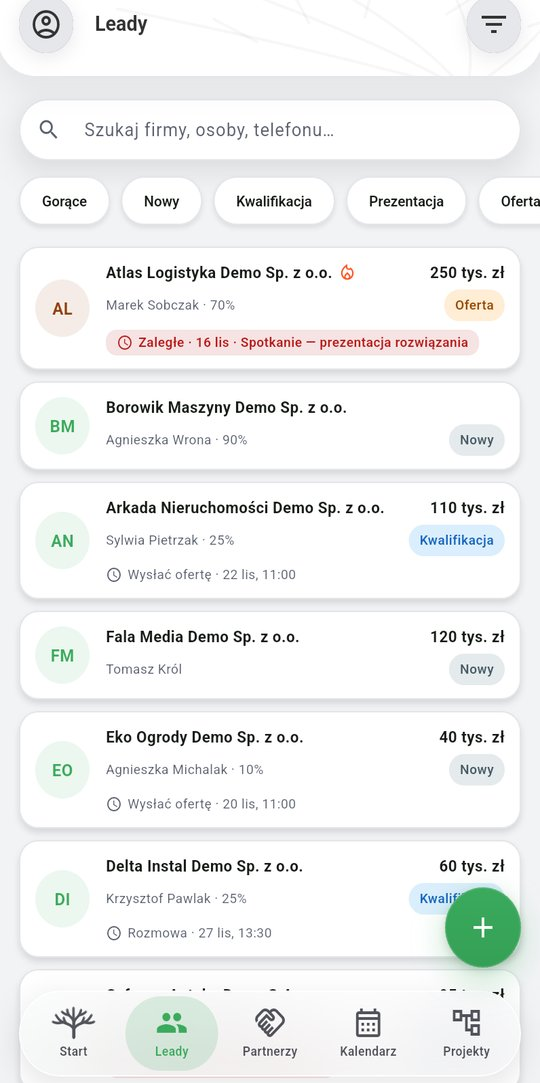
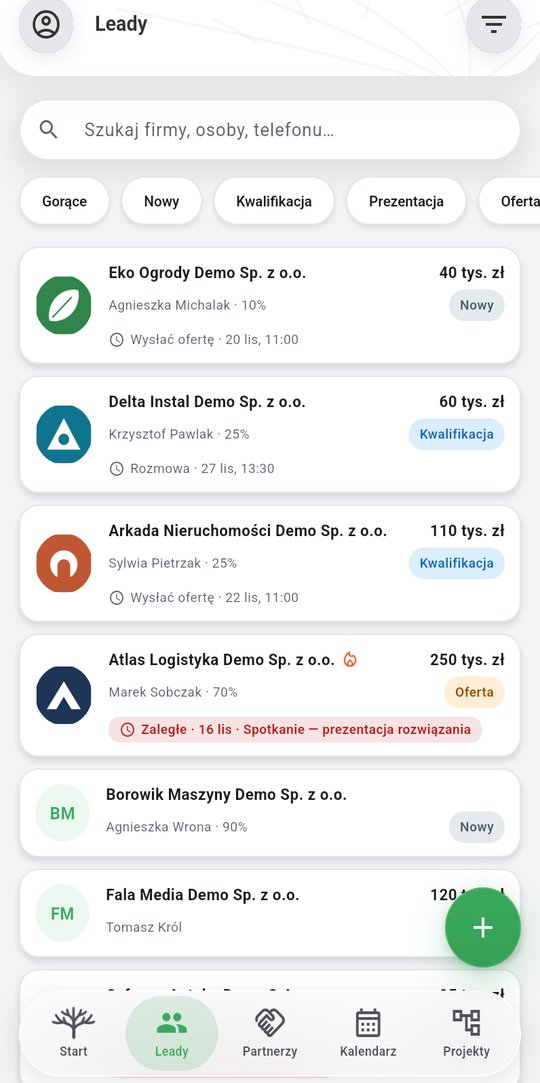
docs(instrukcja): lista leadów w telefonie z logotypami firm demo

Changed region(s): [[0.0296, 0.2438, 0.9481, 0.8837], [0.0296, 0.6704, 0.0593, 0.7008]]

diff --git a/src/assets/manual/ru.html b/src/assets/manual/ru.html
@@ -438,7 +438,7 @@ nav.toc .grp{margin:12px 0 2px;padding:0 10px;font-size:12.5px;font-weight:700;c
 <h4 id="p1-leads-mobile"><span class="tag mob">MOBILE</span>Лиды на телефоне</h4>
 <p>На вкладке <b>«Лиды»</b> есть поле <b>«Поиск компании, контакта, телефона…»</b> и чипы для <b>«Горячий»</b> и каждого этапа (<b>«Новый»</b>, <b>«Квалификация»</b>, <b>«Презентация»</b> и так далее). Сначала идут недавно обновлённые лиды. В первой строке плитки — компания и сумма (например, <b>«250 тыс. zł»</b>), во второй — контакт с вероятностью, справа — этап. Третья строка появляется только при задаче со сроком: просроченная — красной меткой <b>«Просроченные · 10 нояб. · …»</b>, ближайшая запланированная — серым. Пламя рядом с названием означает горячий лид. Значок воронки в правом верхнем углу открывает <b>«Фильтры»</b>: <b>«Этап»</b> (включая «Архив»), <b>«Источник»</b>, переключатели <b>«Горячий»</b>, <b>«Только на паузе»</b> и <b>«Только мои»</b>, а для руководителей – <b>«Менеджер по продажам»</b>. Завершите кнопкой <b>«Сбросить»</b> или <b>«Применить»</b>.</p>
 <div class="phones">
-<figure class="phone"><img loading="lazy" src="img/en_t13_leads_list.jpg?v=20261116b" width="540" height="1083" alt="Список лидов на телефоне"><figcaption>«Лиды»: поиск, чипы этапов и плитки лидов.</figcaption></figure>
+<figure class="phone"><img loading="lazy" src="img/en_t13_leads_list.jpg?v=20261116c" width="540" height="1083" alt="Список лидов на телефоне"><figcaption>«Лиды»: поиск, чипы этапов и плитки лидов.</figcaption></figure>
 <figure class="phone"><img loading="lazy" src="img/en_t14_leads_filters.jpg?v=20261113" width="540" height="1083" alt="Фильтры лидов"><figcaption>«Фильтры»: этап, источник, горячий, на паузе, только мои.</figcaption></figure>
 </div>
 </section>

diff --git a/src/assets/manual/fr.html b/src/assets/manual/fr.html
@@ -438,7 +438,7 @@ nav.toc .grp{margin:12px 0 2px;padding:0 10px;font-size:12.5px;font-weight:700;c
 <h4 id="p1-leads-mobile"><span class="tag mob">MOBILE</span>Les leads sur le téléphone</h4>
 <p>L’onglet <b>« Leads »</b> comporte un champ <b>« Rechercher une société, une personne, un téléphone… »</b> et des puces pour <b>« Chauds »</b> et chaque étape (<b>« Nouveau »</b>, <b>« Qualification »</b>, <b>« Présentation »</b>, etc.). Les leads récemment mis à jour viennent en premier. La première ligne de la tuile affiche l’entreprise et la valeur (par exemple <b>« 250 k zł »</b>), la deuxième le contact avec la probabilité et, à droite, l’étape. Une troisième ligne n’apparaît que pour une activité datée : en retard sous forme d’étiquette rouge <b>« En retard · 10 nov. · … »</b>, la prochaine prévue en gris. Une flamme à côté du nom signale un lead chaud. L’icône d’entonnoir en haut à droite ouvre les <b>« Filtres »</b> : <b>« Étape »</b> (y compris Archivés), <b>« Source »</b>, des interrupteurs pour <b>« Chauds »</b>, <b>« En attente uniquement »</b> et <b>« Les miens uniquement »</b>, et pour les responsables <b>« Commercial »</b>. Terminez avec <b>« Effacer »</b> ou <b>« Appliquer »</b>.</p>
 <div class="phones">
-<figure class="phone"><img loading="lazy" src="img/en_t13_leads_list.jpg?v=20261116b" width="540" height="1083" alt="Liste des leads sur le téléphone"><figcaption>« Leads » : recherche, puces d’étapes et tuiles de leads.</figcaption></figure>
+<figure class="phone"><img loading="lazy" src="img/en_t13_leads_list.jpg?v=20261116c" width="540" height="1083" alt="Liste des leads sur le téléphone"><figcaption>« Leads » : recherche, puces d’étapes et tuiles de leads.</figcaption></figure>
 <figure class="phone"><img loading="lazy" src="img/en_t14_leads_filters.jpg?v=20261113" width="540" height="1083" alt="Filtres des leads"><figcaption>« Filtres » : étape, source, chaud, en attente, les miens uniquement.</figcaption></figure>
 </div>
 </section>

diff --git a/src/assets/manual/ro.html b/src/assets/manual/ro.html
@@ -438,7 +438,7 @@ nav.toc .grp{margin:12px 0 2px;padding:0 10px;font-size:12.5px;font-weight:700;c
 <h4 id="p1-leads-mobile"><span class="tag mob">MOBILE</span>Leaduri pe telefon</h4>
 <p>Fila <b>„Leaduri”</b> are o casetă <b>„Căutați companie, persoană, telefon…”</b> și chipuri pentru <b>„Fierbinți”</b> și pentru fiecare etapă (<b>„Nou”</b>, <b>„Calificare”</b>, <b>„Prezentare”</b> și așa mai departe). Leadurile actualizate recent apar primele. Primul rând al cardului arată compania și valoarea (de exemplu <b>„250 mii zł”</b>), al doilea contactul cu probabilitatea, iar în dreapta etapa. Un al treilea rând apare doar pentru o activitate cu termen: cea restantă ca etichetă roșie <b>„Restante · 10 nov. · …”</b>, următoarea planificată cu gri. O flacără lângă nume marchează un lead fierbinte. Pictograma pâlnie din colțul din dreapta sus deschide <b>„Filtre”</b>: <b>„Etapă”</b> (inclusiv Arhivat), <b>„Sursă”</b>, comutatoare pentru <b>„Fierbinți”</b>, <b>„Doar în așteptare”</b> și <b>„Doar ale mele”</b>, iar pentru manageri <b>„Agent de vânzări”</b>. Încheiați cu <b>„Resetare”</b> sau <b>„Aplicare”</b>.</p>
 <div class="phones">
-<figure class="phone"><img loading="lazy" src="img/en_t13_leads_list.jpg?v=20261116b" width="540" height="1083" alt="Lista de leaduri pe telefon"><figcaption>„Leaduri”: căutare, chipuri de etapă și casete de leaduri.</figcaption></figure>
+<figure class="phone"><img loading="lazy" src="img/en_t13_leads_list.jpg?v=20261116c" width="540" height="1083" alt="Lista de leaduri pe telefon"><figcaption>„Leaduri”: căutare, chipuri de etapă și casete de leaduri.</figcaption></figure>
 <figure class="phone"><img loading="lazy" src="img/en_t14_leads_filters.jpg?v=20261113" width="540" height="1083" alt="Filtre pentru leaduri"><figcaption>„Filtre”: etapă, sursă, fierbinte, în așteptare, doar ale mele.</figcaption></figure>
 </div>
 </section>

diff --git a/src/assets/manual/es.html b/src/assets/manual/es.html
@@ -437,7 +437,7 @@ nav.toc .grp{margin:12px 0 2px;padding:0 10px;font-size:12.5px;font-weight:700;c
 <h4 id="p1-leads-mobile"><span class="tag mob">MOBILE</span>Leads en el móvil</h4>
 <p>La pestaña <b>“Leads”</b> tiene un cuadro <b>“Buscar empresa, persona, teléfono…”</b> y chips para <b>“Calientes”</b> y cada etapa (<b>“Nuevo”</b>, <b>“Cualificación”</b>, <b>“Presentación”</b>, etc.). Los leads actualizados más recientemente aparecen primero. La primera línea de la tarjeta muestra la empresa y el valor (por ejemplo <b>«250 mil zł»</b>), la segunda el contacto con la probabilidad y, a la derecha, la etapa. Una tercera línea aparece solo si hay una actividad con fecha: la atrasada como etiqueta roja <b>«Atrasadas · 10 nov · …»</b>, la próxima planificada en gris. Una llama junto al nombre indica un lead caliente. El icono de embudo de la esquina superior derecha abre <b>“Filtros”</b>: <b>“Etapa”</b> (incluidos los archivados), <b>“Origen”</b>, interruptores para <b>“Calientes”</b>, <b>“Solo en espera”</b> y <b>“Solo los míos”</b> y, para los responsables, <b>“Comercial”</b>. Termina con <b>“Borrar”</b> o <b>“Aplicar”</b>.</p>
 <div class="phones">
-<figure class="phone"><img loading="lazy" src="img/en_t13_leads_list.jpg?v=20261116b" width="540" height="1083" alt="Lista de leads en el móvil"><figcaption>“Leads”: búsqueda, chips de etapa y tarjetas de leads.</figcaption></figure>
+<figure class="phone"><img loading="lazy" src="img/en_t13_leads_list.jpg?v=20261116c" width="540" height="1083" alt="Lista de leads en el móvil"><figcaption>“Leads”: búsqueda, chips de etapa y tarjetas de leads.</figcaption></figure>
 <figure class="phone"><img loading="lazy" src="img/en_t14_leads_filters.jpg?v=20261113" width="540" height="1083" alt="Filtros de leads"><figcaption>“Filtros”: etapa, origen, calientes, en espera, solo los míos.</figcaption></figure>
 </div>
 </section>

diff --git a/src/assets/manual/de.html b/src/assets/manual/de.html
@@ -438,7 +438,7 @@ nav.toc .grp{margin:12px 0 2px;padding:0 10px;font-size:12.5px;font-weight:700;c
 <h4 id="p1-leads-mobile"><span class="tag mob">MOBILE</span>Leads auf dem Handy</h4>
 <p>Die Registerkarte <b>„Leads“</b> hat ein Feld <b>„Firma, Person, Telefon suchen …“</b> und Chips für <b>„Heiß“</b> und jede Phase (<b>„Neu“</b>, <b>„Qualifizierung“</b>, <b>„Präsentation“</b> und so weiter). Zuletzt aktualisierte Leads stehen oben. Die erste Zeile einer Kachel zeigt Firma und Wert (zum Beispiel <b>„250.000 zł“</b>), die zweite den Kontakt mit der Wahrscheinlichkeit, rechts die Phase. Eine dritte Zeile erscheint nur bei einer terminierten Aktivität: eine überfällige als rotes Etikett <b>„Überfällig · 10. Nov. · …“</b>, die nächste geplante in Grau. Eine Flamme neben dem Namen kennzeichnet einen heißen Lead. Das Trichtersymbol in der oberen rechten Ecke öffnet die <b>„Filter“</b>: <b>„Phase“</b> (einschließlich Archiviert), <b>„Quelle“</b>, Schalter für <b>„Heiß“</b>, <b>„Nur zurückgestellte“</b> und <b>„Nur meine“</b> sowie für Vertriebsleiter <b>„Vertriebsmitarbeiter“</b>. Abschließen mit <b>„Löschen“</b> oder <b>„Anwenden“</b>.</p>
 <div class="phones">
-<figure class="phone"><img loading="lazy" src="img/en_t13_leads_list.jpg?v=20261116b" width="540" height="1083" alt="Lead-Liste auf dem Handy"><figcaption>„Leads“: Suche, Phasen-Chips und Lead-Kacheln.</figcaption></figure>
+<figure class="phone"><img loading="lazy" src="img/en_t13_leads_list.jpg?v=20261116c" width="540" height="1083" alt="Lead-Liste auf dem Handy"><figcaption>„Leads“: Suche, Phasen-Chips und Lead-Kacheln.</figcaption></figure>
 <figure class="phone"><img loading="lazy" src="img/en_t14_leads_filters.jpg?v=20261113" width="540" height="1083" alt="Lead-Filter"><figcaption>„Filter“: Phase, Quelle, heiß, zurückgestellt, nur meine.</figcaption></figure>
 </div>
 </section>

diff --git a/src/assets/manual/it.html b/src/assets/manual/it.html
@@ -438,7 +438,7 @@ nav.toc .grp{margin:12px 0 2px;padding:0 10px;font-size:12.5px;font-weight:700;c
 <h4 id="p1-leads-mobile"><span class="tag mob">MOBILE</span>I lead sul telefono</h4>
 <p>La scheda <b>«Lead»</b> ha una casella <b>«Cerca azienda, persona, telefono…»</b> e chip per <b>«Caldi»</b> e per ogni fase (<b>«Nuovo»</b>, <b>«Qualificazione»</b>, <b>«Presentazione»</b> e così via). I lead aggiornati di recente compaiono per primi. La prima riga della scheda mostra azienda e valore (ad esempio <b>«250.000 zł»</b>), la seconda il contatto con la probabilità e, a destra, la fase. Una terza riga compare solo per un’attività con scadenza: quella in ritardo come etichetta rossa <b>«In ritardo · 10 nov · …»</b>, la prossima pianificata in grigio. Una fiamma accanto al nome indica un lead caldo. L'icona a imbuto nell'angolo in alto a destra apre i <b>«Filtri»</b>: <b>«Fase»</b> (incluso Archiviato), <b>«Origine»</b>, interruttori per <b>«Caldi»</b>, <b>«Solo in sospeso»</b> e <b>«Solo i miei»</b> e, per i responsabili, <b>«Commerciale»</b>. Concludi con <b>«Cancella»</b> o <b>«Applica»</b>.</p>
 <div class="phones">
-<figure class="phone"><img loading="lazy" src="img/en_t13_leads_list.jpg?v=20261116b" width="540" height="1083" alt="Elenco dei lead sul telefono"><figcaption>«Lead»: ricerca, chip delle fasi e riquadri dei lead.</figcaption></figure>
+<figure class="phone"><img loading="lazy" src="img/en_t13_leads_list.jpg?v=20261116c" width="540" height="1083" alt="Elenco dei lead sul telefono"><figcaption>«Lead»: ricerca, chip delle fasi e riquadri dei lead.</figcaption></figure>
 <figure class="phone"><img loading="lazy" src="img/en_t14_leads_filters.jpg?v=20261113" width="540" height="1083" alt="Filtri dei lead"><figcaption>«Filtri»: fase, origine, caldi, in sospeso, solo i miei.</figcaption></figure>
 </div>
 </section>

diff --git a/src/assets/manual/hr.html b/src/assets/manual/hr.html
@@ -438,7 +438,7 @@ nav.toc .grp{margin:12px 0 2px;padding:0 10px;font-size:12.5px;font-weight:700;c
 <h4 id="p1-leads-mobile"><span class="tag mob">MOBILE</span>Leadovi na telefonu</h4>
 <p>Kartica <b>„Leadovi”</b> ima okvir <b>„Traži tvrtku, osobu, telefon…”</b> i čipove za <b>„Vrući”</b> i svaku fazu (<b>„Novi”</b>, <b>„Kvalifikacija”</b>, <b>„Prezentacija”</b> i tako dalje). Nedavno ažurirani leadovi dolaze prvi. Prvi redak pločice prikazuje tvrtku i vrijednost (na primjer <b>„250 tis. zł”</b>), drugi kontakt s vjerojatnošću, a desno fazu. Treći redak pojavljuje se samo uz aktivnost s rokom: zakašnjela kao crvena oznaka <b>„Zakašnjelo · 10. stu · …”</b>, sljedeća planirana sivo. Plamen uz naziv označava vrući lead. Ikona lijevka u gornjem desnom kutu otvara <b>„Filtri”</b>: <b>„Faza”</b> (uključujući arhivirane), <b>„Izvor”</b>, prekidače za <b>„Vrući”</b>, <b>„Samo na čekanju”</b> i <b>„Samo moji”</b>, a za menadžere i <b>„Prodavač”</b>. Završite s <b>„Očisti”</b> ili <b>„Primijeni”</b>.</p>
 <div class="phones">
-<figure class="phone"><img loading="lazy" src="img/en_t13_leads_list.jpg?v=20261116b" width="540" height="1083" alt="Popis leadova na telefonu"><figcaption>„Leadovi”: pretraživanje, čipovi faza i pločice leadova.</figcaption></figure>
+<figure class="phone"><img loading="lazy" src="img/en_t13_leads_list.jpg?v=20261116c" width="540" height="1083" alt="Popis leadova na telefonu"><figcaption>„Leadovi”: pretraživanje, čipovi faza i pločice leadova.</figcaption></figure>
 <figure class="phone"><img loading="lazy" src="img/en_t14_leads_filters.jpg?v=20261113" width="540" height="1083" alt="Filtri leadova"><figcaption>„Filtri”: faza, izvor, vrući, na čekanju, samo moji.</figcaption></figure>
 </div>
 </section>

diff --git a/src/assets/manual/pl.html b/src/assets/manual/pl.html
@@ -439,7 +439,7 @@ nav.toc .grp{margin:12px 0 2px;padding:0 10px;font-size:12.5px;font-weight:700;c
 <h4 id="p1-leads-mobile"><span class="tag mob">MOBILE</span>Leady w telefonie</h4>
 <p>Zakładka <b>„Leady”</b> ma wyszukiwarkę <b>„Szukaj firmy, osoby, telefonu…”</b> i chipy: <b>„Gorące”</b> oraz etapy (<b>„Nowy”</b>, <b>„Kwalifikacja”</b>, <b>„Prezentacja”</b> i dalsze). Na górze są leady zmieniane ostatnio. Kafel leada ma w pierwszej linii firmę i wartość (np. <b>„250 tys. zł”</b>), w drugiej kontakt z prawdopodobieństwem, a po prawej etap. Trzecia linia pojawia się tylko przy zadaniu z terminem: zaległe jako czerwona plakietka <b>„Zaległe · 10 lis · …”</b>, najbliższe na szaro. Płomień przy nazwie oznacza gorący lead. Ikona lejka w prawym górnym rogu otwiera <b>„Filtry”</b>: <b>„Etap”</b> (także „Archiwum”), <b>„Źródło”</b>, przełączniki <b>„Gorące”</b>, <b>„Tylko na Holdzie”</b>, <b>„Tylko moje”</b>, a u kierownika <b>„Handlowiec”</b>. Przyciski: <b>„Wyczyść”</b> i <b>„Zastosuj”</b>.</p>
 <div class="phones">
-<figure class="phone"><img loading="lazy" src="img/pl_t13_leads_list.jpg?v=20261116b" width="540" height="1083" alt="Lista leadów w telefonie"><figcaption>„Leady”: wyszukiwarka, chipy etapów, kafle leadów.</figcaption></figure>
+<figure class="phone"><img loading="lazy" src="img/pl_t13_leads_list.jpg?v=20261116c" width="540" height="1083" alt="Lista leadów w telefonie"><figcaption>„Leady”: wyszukiwarka, chipy etapów, kafle leadów.</figcaption></figure>
 <figure class="phone"><img loading="lazy" src="img/pl_t14_leads_filters.jpg?v=20261113" width="540" height="1083" alt="Filtry leadów"><figcaption>„Filtry”: etap, źródło, gorące, Hold, tylko moje.</figcaption></figure>
 </div>
 </section>

diff --git a/src/assets/manual/en.html b/src/assets/manual/en.html
@@ -438,7 +438,7 @@ nav.toc .grp{margin:12px 0 2px;padding:0 10px;font-size:12.5px;font-weight:700;c
 <h4 id="p1-leads-mobile"><span class="tag mob">MOBILE</span>Leads on the phone</h4>
 <p>The <b>“Leads”</b> tab has a <b>“Search company, person, phone…”</b> box and chips for <b>“Hot”</b> and each stage (<b>“New”</b>, <b>“Qualification”</b>, <b>“Presentation”</b> and so on). Recently updated leads come first. The first line of a tile shows the company and the value (for example <b>“250K zł”</b>), the second the contact with the probability, and the stage on the right. A third line appears only for a dated activity: an overdue one as a red label <b>“Overdue · 10 Nov · …”</b>, the next planned one in grey. A flame next to the name marks a hot lead. The funnel icon in the top-right corner opens <b>“Filters”</b>: <b>“Stage”</b> (including Archived), <b>“Source”</b>, switches for <b>“Hot”</b>, <b>“On hold only”</b> and <b>“Mine only”</b>, and for managers <b>“Salesperson”</b>. Finish with <b>“Clear”</b> or <b>“Apply”</b>.</p>
 <div class="phones">
-<figure class="phone"><img loading="lazy" src="img/en_t13_leads_list.jpg?v=20261116b" width="540" height="1083" alt="Lead list on the phone"><figcaption>“Leads”: search, stage chips and lead tiles.</figcaption></figure>
+<figure class="phone"><img loading="lazy" src="img/en_t13_leads_list.jpg?v=20261116c" width="540" height="1083" alt="Lead list on the phone"><figcaption>“Leads”: search, stage chips and lead tiles.</figcaption></figure>
 <figure class="phone"><img loading="lazy" src="img/en_t14_leads_filters.jpg?v=20261113" width="540" height="1083" alt="Lead filters"><figcaption>“Filters”: stage, source, hot, on hold, mine only.</figcaption></figure>
 </div>
 </section>

diff --git a/src/assets/manual/sl.html b/src/assets/manual/sl.html
@@ -438,7 +438,7 @@ nav.toc .grp{margin:12px 0 2px;padding:0 10px;font-size:12.5px;font-weight:700;c
 <h4 id="p1-leads-mobile"><span class="tag mob">MOBILE</span>Leadi na telefonu</h4>
 <p>Zavihek <b>»Leadi«</b> ima polje <b>»Išči podjetje, osebo, telefon…«</b> ter čipe za <b>»Vroči«</b> in vsako fazo (<b>»Nov«</b>, <b>»Kvalifikacija«</b>, <b>»Predstavitev«</b> in tako naprej). Nedavno posodobljeni leadi so na vrhu. Prva vrstica ploščice prikaže podjetje in vrednost (na primer <b>»250 tis. zł«</b>), druga stik z verjetnostjo, desno pa fazo. Tretja vrstica se pojavi samo pri aktivnosti z rokom: zapadla kot rdeča oznaka <b>»Zapadlo · 10. nov. · …«</b>, naslednja načrtovana sivo. Plamen ob imenu označuje vroč lead. Ikona lijaka v zgornjem desnem kotu odpre <b>»Filtre«</b>: <b>»Faza«</b> (vključno z Arhivirano), <b>»Vir«</b>, stikala za <b>»Vroči«</b>, <b>»Samo zadržani«</b> in <b>»Samo moji«</b>, za vodje pa <b>»Prodajalec«</b>. Zaključite z <b>»Počisti«</b> ali <b>»Uporabi«</b>.</p>
 <div class="phones">
-<figure class="phone"><img loading="lazy" src="img/en_t13_leads_list.jpg?v=20261116b" width="540" height="1083" alt="Seznam leadov na telefonu"><figcaption>»Leadi«: iskanje, čipi faz in ploščice leadov.</figcaption></figure>
+<figure class="phone"><img loading="lazy" src="img/en_t13_leads_list.jpg?v=20261116c" width="540" height="1083" alt="Seznam leadov na telefonu"><figcaption>»Leadi«: iskanje, čipi faz in ploščice leadov.</figcaption></figure>
 <figure class="phone"><img loading="lazy" src="img/en_t14_leads_filters.jpg?v=20261113" width="540" height="1083" alt="Filtri leadov"><figcaption>»Filtri«: faza, vir, vroči, zadržani, samo moji.</figcaption></figure>
 </div>
 </section>
